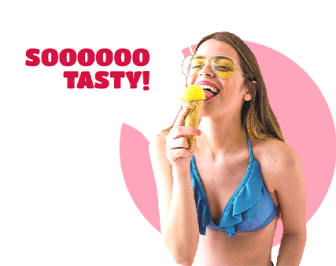
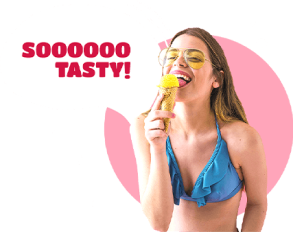
photos 1x, 2x

diff --git a/src/partials/header.html b/src/partials/header.html
@@ -3,7 +3,8 @@
         <div class="header">
             <div class="header__logo">
                 <img 
-                    src="./images/logo 1.png"
+                    src="./images/logo-1.png"
+                    srcset="./images/logo-1@2x.png 2x"
                     alt="Logo IceCream"
                     width="199"
                     height="50"/>
@@ -24,7 +25,11 @@
 
             
             <div class="header__photo--icecream">
-                <img src="./images/header-icecream.png" alt="icecream" width="171" height="410" />
+                <img src="./images/header-icecream.png"
+                     srcset="./images/header-icecream@2x.png 2x"
+                     alt="icecream" 
+                     width="171" 
+                     height="410" />
             </div>
             <h1 class="header__title">
                 ice cream<br>made with<br><span class="header__title--passion">passion</span>
@@ -36,14 +41,22 @@
                 <a class="header__button-how--text" href="#how-it's-made">How it's made?</a>
             </button>
             <div class="header__photo--bio-eco">
-                <img src="./images/bio-eco.png" alt="bio eco" width="124" height="126"/>
+                <img src="./images/bio-eco.png"
+                     srcset="./images/bio-eco@2x.png 2x" 
+                     alt="bio eco" 
+                     width="124" 
+                     height="126"/>
             </div>
             <div class="header__bio-eco">
                 <div class="header__bio-eco--text">
                     Lorem ipsum dolor sit amet, consectetur adipiscing elit, sed do eiusmod tempor incididunt ut labore et
                 </div>
                 <div class="header__bio-eco--icon">
-                    <img src="./images/arrow-right-header.png" alt="arrow" width="18" height="18">
+                    <img src="./images/arrow-right-header.png"
+                         srcset="./images/arrow-right-header@2x.png 2x" 
+                         alt="arrow" 
+                         width="18" 
+                         height="18">
                 </div>
             </div>
             <div class="header__numbers header__numbers--1">
@@ -57,7 +70,11 @@
                 <div class="header__numbers-place">food trucks</div>
             </div>
             <div class="header__photo--soo-tasty">
-                <img src="./images/soo-tasty.png" alt="girl with ice cream and text soo-tasty" width="168" height="133"/>
+                <img src="./images/soo-tasty.png"
+                     src="./images/soo-tasty@2x.png 2x" 
+                     alt="girl with ice cream and text soo-tasty" 
+                     width="168" 
+                     height="133"/>
             </div>
         </div>
     </div>
